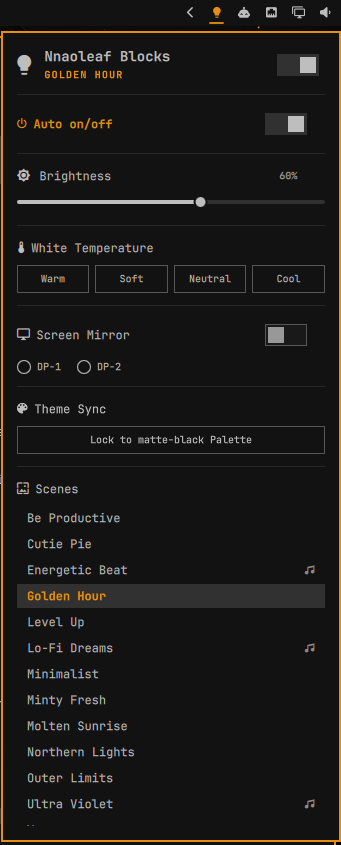
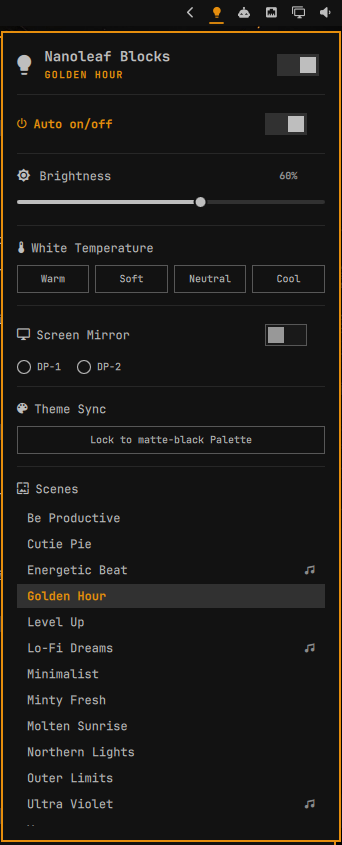
Cap device response size; refresh preview screenshot

diff --git a/src/nanoleaf_ctl/api.py b/src/nanoleaf_ctl/api.py
@@ -15,6 +15,15 @@ from .state import CONFIG_PATH, load_config, save_config
 
 DEFAULT_PORT = 16021
 REQUEST_TIMEOUT = 4
+MAX_RESPONSE_BYTES = 1 << 20  # real responses are tens of KB; the timeout alone doesn't bound size
+
+
+def read_limited(resp, limit: int = MAX_RESPONSE_BYTES) -> str:
+    """Reads and decodes a response body, refusing anything larger than ``limit`` bytes."""
+    raw = resp.read(limit + 1)
+    if len(raw) > limit:
+        raise RuntimeError(f"Response from the device is larger than {limit} bytes")
+    return raw.decode("utf-8")
 
 
 def api_request(method: str, endpoint: str, data=None, config=None):
@@ -41,7 +50,7 @@ def api_request(method: str, endpoint: str, data=None, config=None):
 
     try:
         with urllib.request.urlopen(req, data=body, timeout=REQUEST_TIMEOUT) as resp:
-            content = resp.read().decode("utf-8")
+            content = read_limited(resp)
     except urllib.error.HTTPError as e:
         raise RuntimeError(f"HTTP {e.code}: {e.reason}") from e
     except Exception as e:
@@ -131,7 +140,7 @@ def pair(ip=None, port=DEFAULT_PORT, timeout=45) -> bool:
         try:
             req = urllib.request.Request(f"http://{ip}:{port}/api/v1/new", method="POST")
             with urllib.request.urlopen(req, timeout=3) as resp:
-                token = json.loads(resp.read().decode("utf-8")).get("auth_token")
+                token = json.loads(read_limited(resp)).get("auth_token")
             if token:
                 cfg.update(ip=ip, port=port, token=token)
                 save_config(cfg)

diff --git a/tests/test_api_limits.py b/tests/test_api_limits.py
@@ -1,0 +1,20 @@
+import io
+
+import pytest
+
+from nanoleaf_ctl import api
+
+
+def test_read_limited_returns_small_bodies():
+    assert api.read_limited(io.BytesIO(b'{"a": 1}'), limit=16) == '{"a": 1}'
+
+
+def test_read_limited_accepts_body_exactly_at_limit():
+    assert api.read_limited(io.BytesIO(b"x" * 16), limit=16) == "x" * 16
+
+
+def test_read_limited_rejects_oversized_body_without_reading_it_all():
+    body = io.BytesIO(b"x" * 1000)
+    with pytest.raises(RuntimeError, match="larger than 16 bytes"):
+        api.read_limited(body, limit=16)
+    assert body.tell() == 17  # stopped one byte past the limit
